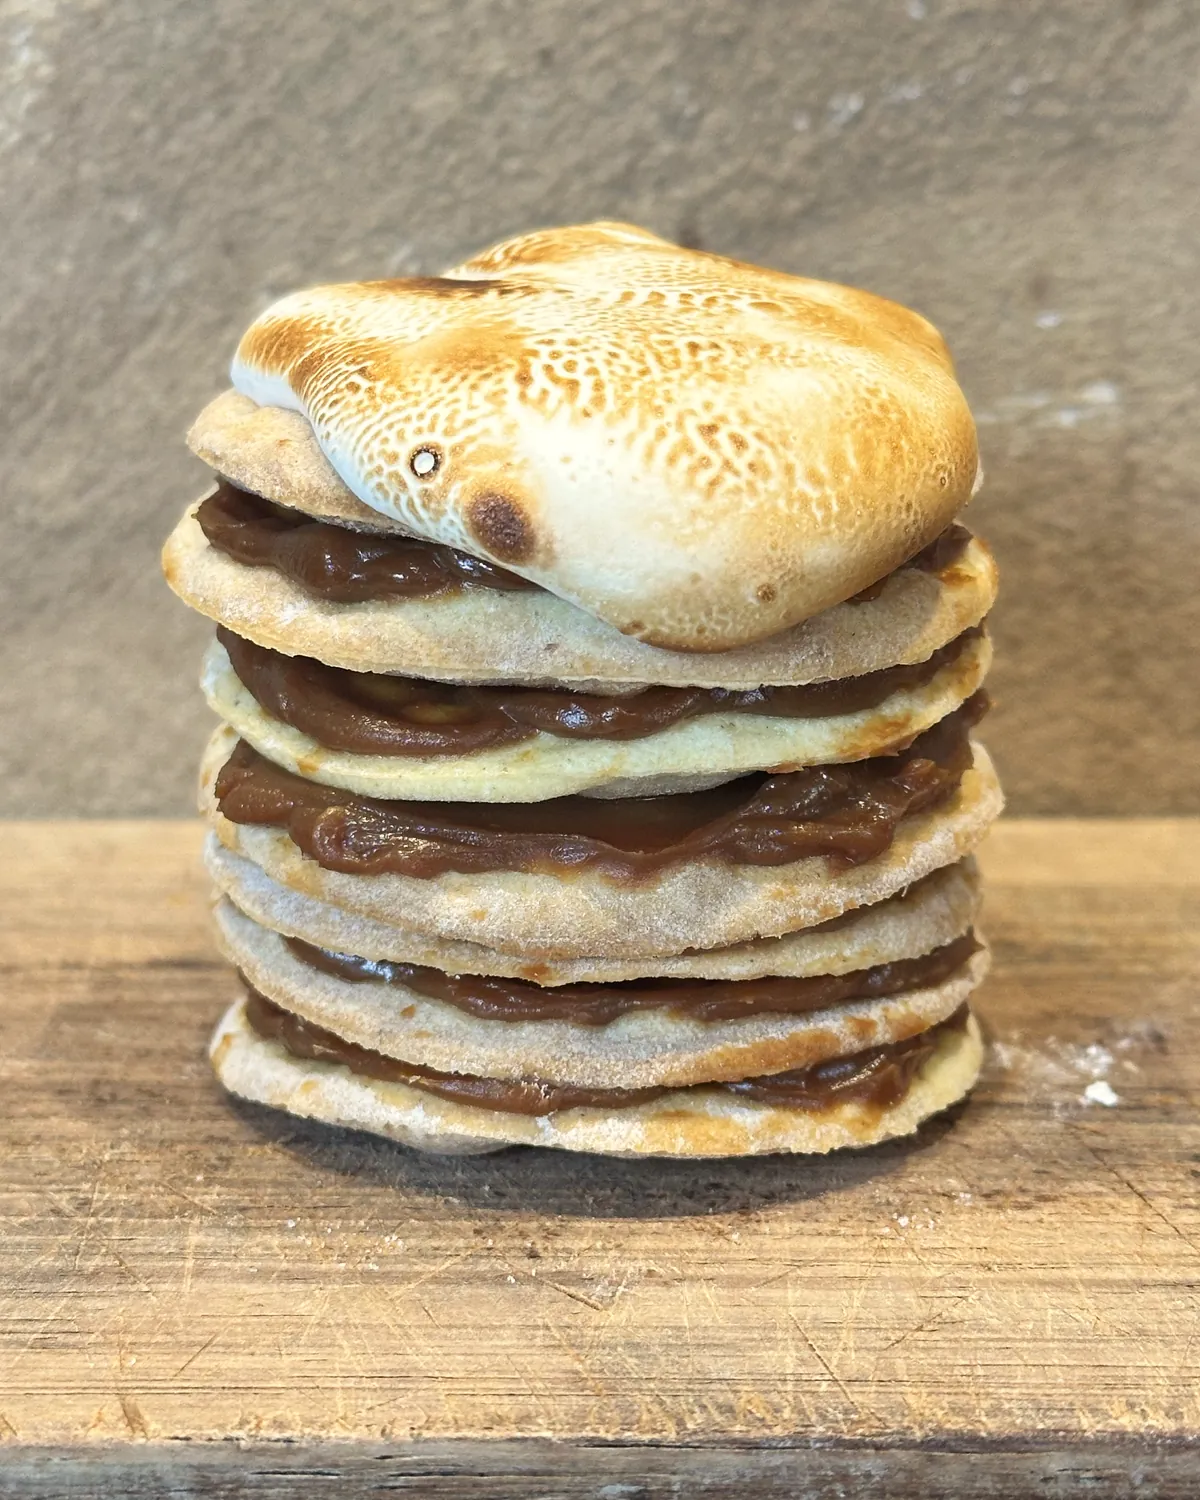
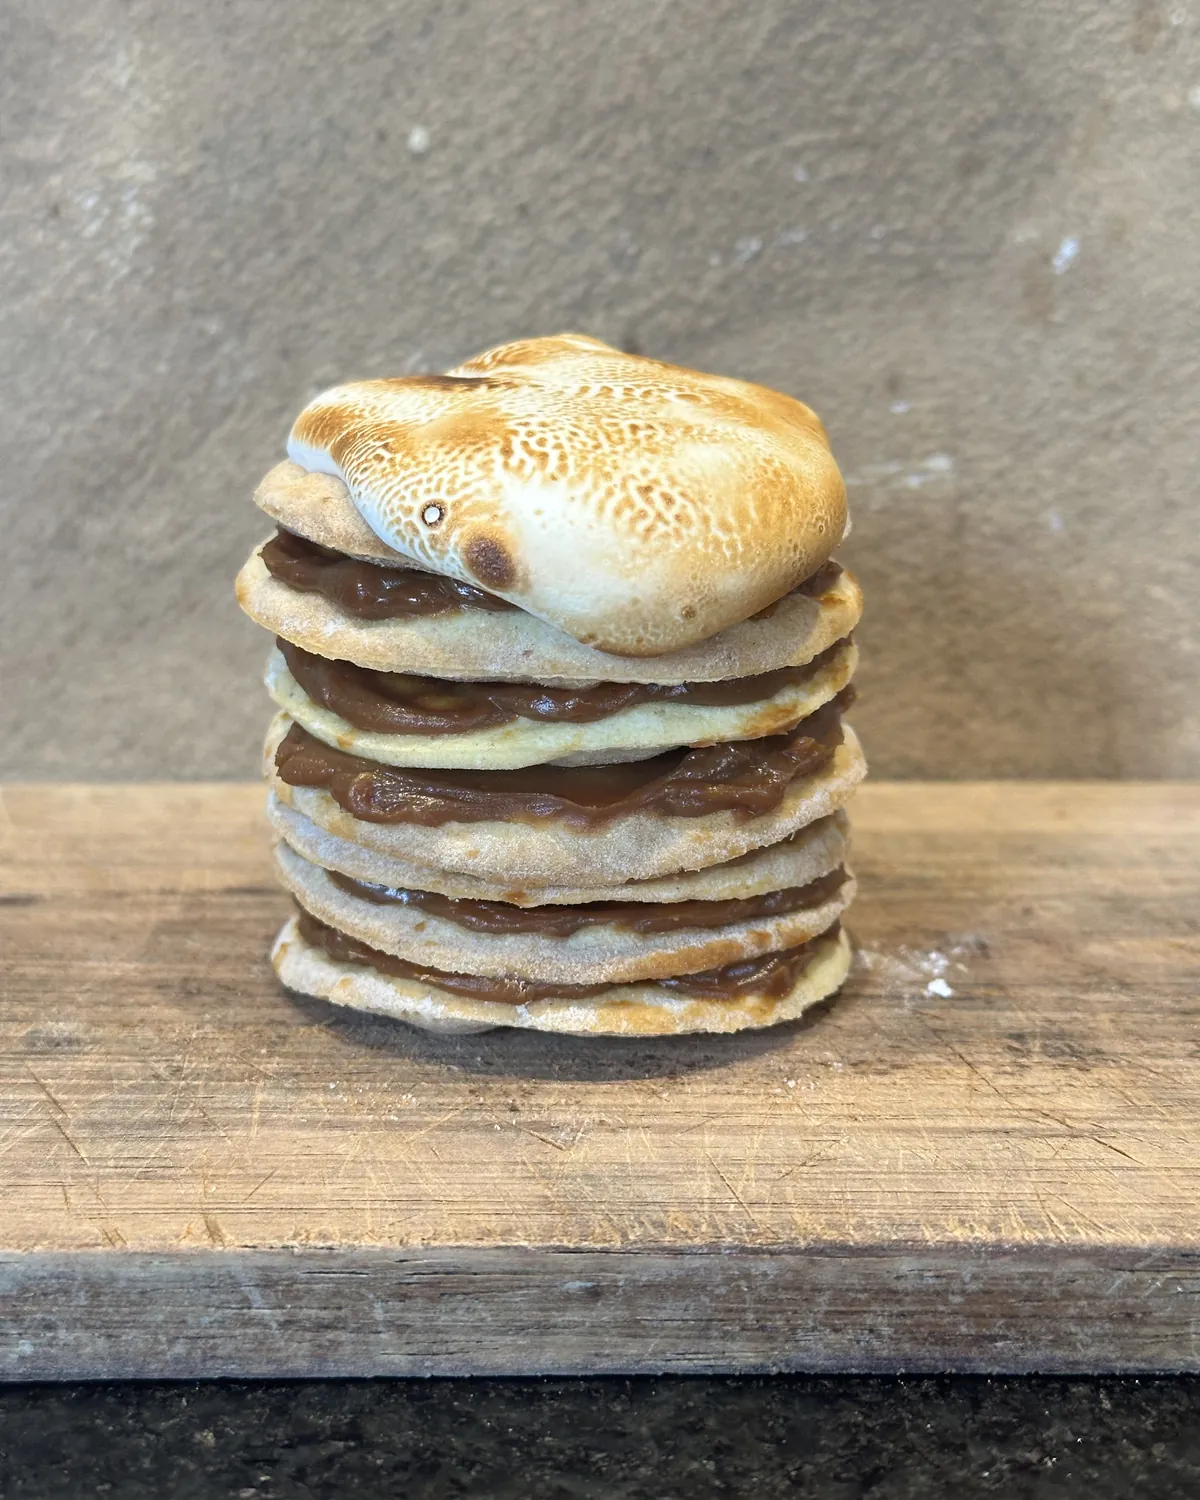
Photos: Ellie's menu picks and hero crops, natural colour (no grade)
menu_photos.py now builds exactly the approved previews (auto/centre crops,
frutillas composite on the IMG_1070 board) at 1200x1500 under 340 KB, and
exports the kitchen hero at the editor frames' aspects (1.6:1 desk, 1:2
phone). Hero uses object-center so the chosen area is what shows.

diff --git a/site/src/components/Hero.tsx b/site/src/components/Hero.tsx
@@ -8,15 +8,17 @@ const STAGGER_MS = 80;
 const ALT =
   "La mesa de la cocina en plena horneada: scones, afghans de chocolate con nuez, un rogel con merengue tostado y un budín glaseado sobre tablas de madera";
 
-// Desktop: the wide strip (boards on top, then scones, alfajores and glaze). Phones: the full portrait shot.
+// Ellie's own crops (docs/superpowers/notes/2026-11-06-hero-crop.json), natural colour.
+// Desktop: 1.6:1 strip (scones, the stacked rogel and the cake slice). Phones: 1:2, the right-hand side.
+// Each export has its editor frame's aspect, so object-cover + centre shows the chosen area.
 const DESKTOP_MEDIA = "(min-width: 768px)";
 const common = { alt: ALT, sizes: "100vw", fetchPriority: "high", loading: "eager" } as const;
 const {
   props: { srcSet: wideSrcSet },
-} = getImageProps({ ...common, src: "/home/kitchen-wide.webp", width: 2400, height: 1440 });
+} = getImageProps({ ...common, src: "/home/kitchen-wide.webp", width: 2400, height: 1500 });
 const {
   props: { srcSet: tallSrcSet, ...tallImg },
-} = getImageProps({ ...common, src: "/home/kitchen-tall.webp", width: 1200, height: 1600 });
+} = getImageProps({ ...common, src: "/home/kitchen-tall.webp", width: 1200, height: 2400 });
 
 /**
  * The kitchen photo, edge to edge and about one screen tall, with the header (laid over it
@@ -35,7 +37,7 @@ export default function Hero() {
           {...tallImg}
           srcSet={tallSrcSet}
           alt={ALT}
-          className="absolute inset-0 h-full w-full object-cover object-[center_30%] md:object-[center_40%]"
+          className="absolute inset-0 h-full w-full object-cover object-center"
         />
       </picture>
 

diff --git a/site/scripts/menu_photos.py b/site/scripts/menu_photos.py
@@ -1,75 +1,142 @@
-"""Menu and kitchen hero photos, one shared grade.
+"""Menu and kitchen hero photos: Ellie's picks and crops, natural colour (no grade).
 
 Run from site/:  python scripts/menu_photos.py
 Writes public/menu/<id>.webp (1200x1500, 4:5) and public/home/kitchen-{wide,tall}.webp.
 Every file must stay under MAX_BYTES; a photo that can't is exported smaller
 (see save()), and if even that fails the script stops with an error.
 
-Every photo keeps its real background; consistency comes from framing (bake centred,
-some air around it) and one gentle shared grade (warm, soft S-curve).
+Picks and crop recipes: docs/superpowers/notes/2026-11-06-menu-photo-picks.json
+Hero crops: docs/superpowers/notes/2026-11-06-hero-crop.json
+No colour grade or filter anywhere: the photos go out straight from the camera.
 """
+import glob
+import json
 import os
 
 import numpy as np
 import pillow_heif
-from PIL import Image, ImageOps
+from PIL import Image, ImageDraw, ImageFilter, ImageOps
 
 pillow_heif.register_heif_opener()
 
 HOME = os.path.expanduser("~")
 REPO = os.path.abspath(os.path.join(os.path.dirname(__file__), "..", ".."))
 SHOOT = os.path.join(REPO, "instagram", "shoot-oct17", "raw")
-HERO = os.path.join(REPO, "instagram", "hero")
-GRADED = os.path.join(REPO, "instagram", "graded2")
+SITE_HOME = os.path.join(REPO, "site", "public", "home")
+NOTES = os.path.join(REPO, "docs", "superpowers", "notes")
 
-# id -> (source path, crop). Crop = (cx, cy, w): centre of the 4:5 crop and its width,
-# as fractions of the (EXIF-rotated) image. The height follows from 4:5; the box is
-# shrunk to fit the image if needed and shifted to stay inside it.
+
+def shoot(n):
+    """Raw HEIC from the 17 Oct shoot by its IMG number."""
+    hits = glob.glob(os.path.join(SHOOT, f"*IMG_{n}.HEIC"))
+    if len(hits) != 1:
+        raise SystemExit(f"IMG_{n}: expected one HEIC in {SHOOT}, found {len(hits)}")
+    return hits[0]
+
+
+TWO_LOAVES = os.path.join(SITE_HOME, "bake-carrot.webp")
+
+# id -> (source, crop)
+#   ("auto", box)  full width, 4:5; if the frame is too tall, 70% of the vertical slack is
+#                  taken from the top (keeps the board); too wide: centred. `box` is an optional
+#                  pre-crop (x0, y0, x1, y1) as fractions.
+#   ("center", cx, cy, zoom)  the largest 4:5 box, divided by zoom, centred on (cx, cy).
+#   ("frutillas",)  the tart composite, see frutillas().
 SOURCES = {
-    "banana": (os.path.join(HERO, "zanahoria-foto.jpg"), (0.40, 0.50, 0.60)),  # left loaf
-    "zanahoria": (os.path.join(HERO, "zanahoria-foto.jpg"), (0.635, 0.50, 0.60)),  # right loaf
-    "limon": (os.path.join(SHOOT, "2026-10-17_16-42-28_IMG_1113.HEIC"), (0.50, 0.50, 1.00)),
-    "brownie": (os.path.join(HOME, "Downloads", "Dulce Kiwi - Menu fotos", "budin-brownie-frame-original.jpg"), (0.50, 0.57, 1.00)),
-    "scones-queso": (os.path.join(SHOOT, "2026-10-17_16-37-02_IMG_1090.HEIC"), (0.49, 0.58, 0.58)),
-    "scones-datiles": (os.path.join(HERO, "scones-foto.jpg"), (0.50, 0.60, 1.00)),
-    "afghans": (os.path.join(SHOOT, "2026-10-17_16-32-45_IMG_1077.HEIC"), (0.48, 0.62, 0.92)),
-    "lamingtons": (os.path.join(SHOOT, "2026-10-17_16-51-45_IMG_1148.HEIC"), (0.50, 0.55, 0.73)),
-    "rogel": (os.path.join(GRADED, "IMG_4268.jpg"), (0.48, 0.50, 1.00)),
-    "mini-rogel": (os.path.join(SHOOT, "2026-10-17_16-46-47_IMG_1127.HEIC"), (0.47, 0.50, 0.75)),
-    "lemon-pie": (os.path.join(HOME, "Downloads", "2026-10-31_14-07-04_IMG_1797.HEIC"), (0.50, 0.60, 1.00)),
-    "frutillas": (os.path.join(GRADED, "IMG_2134.jpg"), (0.50, 0.60, 1.00)),
+    "banana": (TWO_LOAVES, ("auto", None)),  # both loaves, centred
+    "zanahoria": (TWO_LOAVES, ("auto", None)),
+    "limon": (shoot("1115"), ("center", 0.5, 0.47, 1.0)),
+    "brownie": (
+        os.path.join(HOME, "Downloads", "Dulce Kiwi - Menu fotos", "budin-brownie-frame-original.jpg"),
+        ("auto", (0.08, 0.2, 0.92, 0.9)),
+    ),
+    "scones-queso": (shoot("1091"), ("auto", None)),
+    "scones-datiles": (os.path.join(SITE_HOME, "bake-scones.webp"), ("auto", None)),
+    "afghans": (shoot("1080"), ("auto", None)),
+    "lamingtons": (shoot("1140"), ("auto", None)),
+    "rogel": (os.path.join(REPO, "instagram", "source", "batch2", "IMG_4268.png"), ("auto", None)),
+    "mini-rogel": (shoot("1127"), ("auto", None)),
+    "lemon-pie": (os.path.join(HOME, "Downloads", "2026-10-31_14-07-04_IMG_1797.HEIC"), ("auto", None)),
+    "frutillas": (None, ("frutillas",)),
 }
 
-KITCHEN = os.path.join(SHOOT, "2026-10-17_16-59-09_IMG_1177.HEIC")
+TART_CUTOUT = os.path.join(REPO, "instagram", "cutouts2", "IMG_2134.png")
+BOARD = shoot("1070")  # the wooden board, shot from straight above
+KITCHEN = shoot("1177")
 
+ASPECT = 4 / 5
 MENU_SIZE = (1200, 1500)
 OUT_MENU = os.path.join(REPO, "site", "public", "menu")
-OUT_HOME = os.path.join(REPO, "site", "public", "home")
+OUT_HOME = SITE_HOME
 
 
 def load(path):
     return ImageOps.exif_transpose(Image.open(path)).convert("RGB")
 
 
-def crop_box(size, cx, cy, w, aspect=4 / 5):
-    W, H = size
-    cw = w * W
-    ch = cw / aspect
-    if ch > H:  # too tall: shrink to fit the height
-        ch = H
-        cw = ch * aspect
-    x0 = min(max(cx * W - cw / 2, 0), W - cw)
-    y0 = min(max(cy * H - ch / 2, 0), H - ch)
-    return tuple(int(round(v)) for v in (x0, y0, x0 + cw, y0 + ch))
+def crop_auto(im, box=None):
+    W, H = im.size
+    if box:
+        im = im.crop((int(box[0] * W), int(box[1] * H), int(box[2] * W), int(box[3] * H)))
+        W, H = im.size
+    if W / H > ASPECT:  # too wide: centre
+        nw = int(H * ASPECT)
+        x = (W - nw) // 2
+        return im.crop((x, 0, x + nw, H))
+    nh = int(W / ASPECT)  # too tall: keep the lower part (board)
+    y = int((H - nh) * 0.7)
+    return im.crop((0, y, W, y + nh))
 
 
-def grade(im):
-    """Shared gentle grade: a touch warmer, soft S-curve. No saturation boost."""
-    x = np.asarray(im, np.float32) / 255
-    x = x * np.array([1.03, 1.0, 0.95], np.float32)
-    x = np.clip(x, 0, 1)
-    x = x * x * (3 - 2 * x) * 0.25 + x * 0.75  # gentle S-curve
-    return Image.fromarray((np.clip(x, 0, 1) * 255 + 0.5).astype(np.uint8))
+def crop_center(im, cx, cy, zoom):
+    W, H = im.size
+    w = min(W, H * ASPECT) / zoom
+    h = w / ASPECT
+    x0 = max(0, min(W - w, cx * W - w / 2))
+    y0 = max(0, min(H - h, cy * H - h / 2))
+    return im.crop((int(x0), int(y0), int(x0 + w), int(y0 + h)))
+
+
+def frutillas():
+    """The whole tart (cut out of IMG_2134) laid on the overhead board IMG_1070.
+    Cutout alpha ∩ an ellipse round its bounding box (drops leftovers at the edges), eroded 5px,
+    blurred 1.5px. Tart as wide as the board photo, centred at (0.5, 0.52); soft shadow offset
+    (1.5%, 2.5%) of the width, blur 3%, strength 0.45; then a centred 4:5 crop."""
+    tart = Image.open(TART_CUTOUT).convert("RGBA")
+    a = tart.split()[3]
+    bb = a.getbbox()
+    w, h = bb[2] - bb[0], bb[3] - bb[1]
+    m = Image.new("L", tart.size, 0)
+    ImageDraw.Draw(m).ellipse((bb[0] + w * 0.005, bb[1] + h * 0.005, bb[2] + w * 0.03, bb[3] + h * 0.03), fill=255)
+    a = Image.fromarray(np.minimum(np.asarray(a), np.asarray(m)))
+    tart.putalpha(a.filter(ImageFilter.MinFilter(5)).filter(ImageFilter.GaussianBlur(1.5)))
+
+    bg = load(BOARD)
+    W, H = bg.size
+    tw = int(1.0 * W)
+    th = int(tart.height * tw / tart.width)
+    t = tart.resize((tw, th), Image.LANCZOS)
+    x, y = int(0.5 * W - tw / 2), int(0.52 * H - th / 2)
+    sh = Image.new("L", bg.size, 0)
+    sh.paste(t.split()[3], (x + int(W * 0.015), y + int(W * 0.025)))
+    sh = np.asarray(sh.filter(ImageFilter.GaussianBlur(W * 0.03)), np.float32) / 255
+    B = np.asarray(bg, np.float32) * (1 - sh[..., None] * 0.45)
+    out = Image.fromarray(B.clip(0, 255).astype(np.uint8))
+    out.paste(t, (x, y), t)
+    nh = int(W * 1.25)
+    y0 = (H - nh) // 2 if nh <= H else 0
+    return out.crop((0, y0, W, y0 + min(nh, H)))
+
+
+def menu_photo(src, recipe, cache):
+    if recipe[0] == "frutillas":
+        return frutillas()
+    if src not in cache:
+        cache[src] = load(src)
+    im = cache[src]
+    if recipe[0] == "auto":
+        return crop_auto(im, recipe[1])
+    return crop_center(im, *recipe[1:])
 
 
 MAX_BYTES = 340_000  # hard limit per file (brief: < 350 KB)
@@ -94,27 +161,27 @@ def save(im, path, quality):
     raise SystemExit(f"{path}: still {size:,} B (> {MAX_BYTES:,}) after all fallbacks")
 
 
+def frac_crop(im, c):
+    W, H = im.size
+    return im.crop((round(c["x"] * W), round(c["y"] * H), round((c["x"] + c["w"]) * W), round((c["y"] + c["h"]) * H)))
+
+
 def main():
     os.makedirs(OUT_MENU, exist_ok=True)
     os.makedirs(OUT_HOME, exist_ok=True)
     cache = {}
-    for item_id, (src, (cx, cy, w)) in SOURCES.items():
-        if src not in cache:
-            cache[src] = load(src)
-        im = cache[src]
-        box = crop_box(im.size, cx, cy, w)
-        out = im.crop(box).resize(MENU_SIZE, Image.LANCZOS)
-        save(grade(out), os.path.join(OUT_MENU, f"{item_id}.webp"), 80)
+    for item_id, (src, recipe) in SOURCES.items():
+        out = menu_photo(src, recipe, cache).resize(MENU_SIZE, Image.LANCZOS)
+        save(out, os.path.join(OUT_MENU, f"{item_id}.webp"), 80)
 
+    # Kitchen hero: Ellie's crops from the drag editor, fractions of the rotated photo.
+    with open(os.path.join(NOTES, "2026-11-06-hero-crop.json"), encoding="utf-8") as f:
+        crops = json.load(f)
     k = load(KITCHEN)
-    W, H = k.size
-    # Desktop: full-width strip from 12% down, 0.6x the width tall (hero spec section 1).
-    y0 = int(0.12 * H)
-    wide = k.crop((0, y0, W, y0 + int(0.6 * W))).resize((2400, round(2400 * 0.6)), Image.LANCZOS)
-    save(grade(wide), os.path.join(OUT_HOME, "kitchen-wide.webp"), 78)
-    # Phones: the full portrait shot.
-    tall = k.crop(crop_box(k.size, 0.5, 0.5, 1.0, aspect=3 / 4)).resize((1200, 1600), Image.LANCZOS)
-    save(grade(tall), os.path.join(OUT_HOME, "kitchen-tall.webp"), 78)
+    wide = frac_crop(k, crops["desk"])  # 3024x1890, 1.6:1 like the 960x600 editor frame
+    save(wide.resize((2400, 1500), Image.LANCZOS), os.path.join(OUT_HOME, "kitchen-wide.webp"), 78)
+    tall = frac_crop(k, crops["phone"])  # 2016x4032, 1:2 like the 360x720 editor frame
+    save(tall.resize((1200, 2400), Image.LANCZOS), os.path.join(OUT_HOME, "kitchen-tall.webp"), 78)
 
 
 if __name__ == "__main__":
